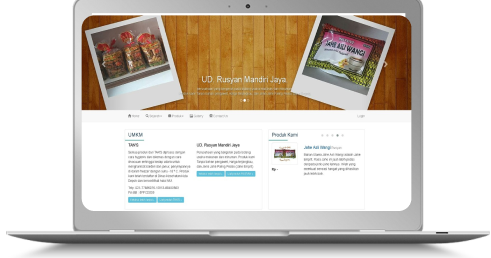
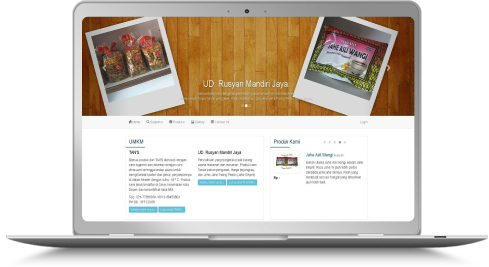
fixing img

diff --git a/src/containers/CatalogPage/index.jsx b/src/containers/CatalogPage/index.jsx
@@ -70,11 +70,11 @@ const CatalogPage = () => {
     },
     {
       name: 'about us',
-      imgUrl: 'https://res.cloudinary.com/dwvzfit8v/image/upload/v1658764098/catalog/About_2_sg0n1e.webp'
+      imgUrl: 'https://res.cloudinary.com/dwvzfit8v/image/upload/v1658909127/catalog/About_tn5ima.webp'
     },
     {
       name: 'contact us',
-      imgUrl: 'https://res.cloudinary.com/dwvzfit8v/image/upload/v1658764098/catalog/Contact_3_euss3h.webp'
+      imgUrl: 'https://res.cloudinary.com/dwvzfit8v/image/upload/v1658909128/catalog/Contact_usyxsa.webp'
     },
   ]
 
